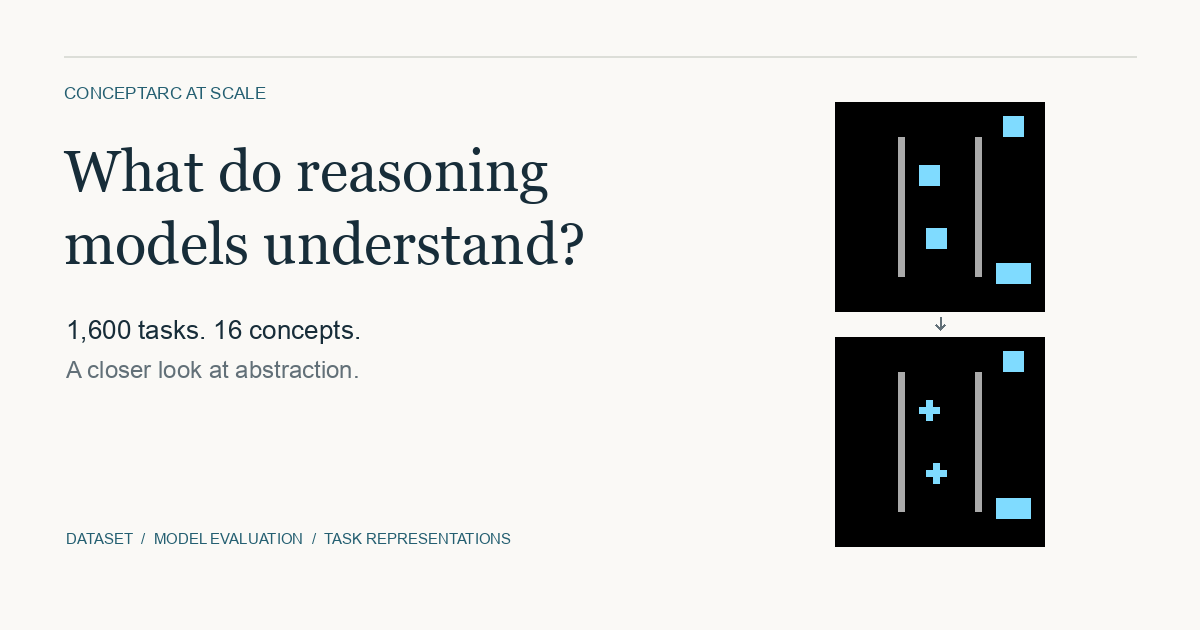
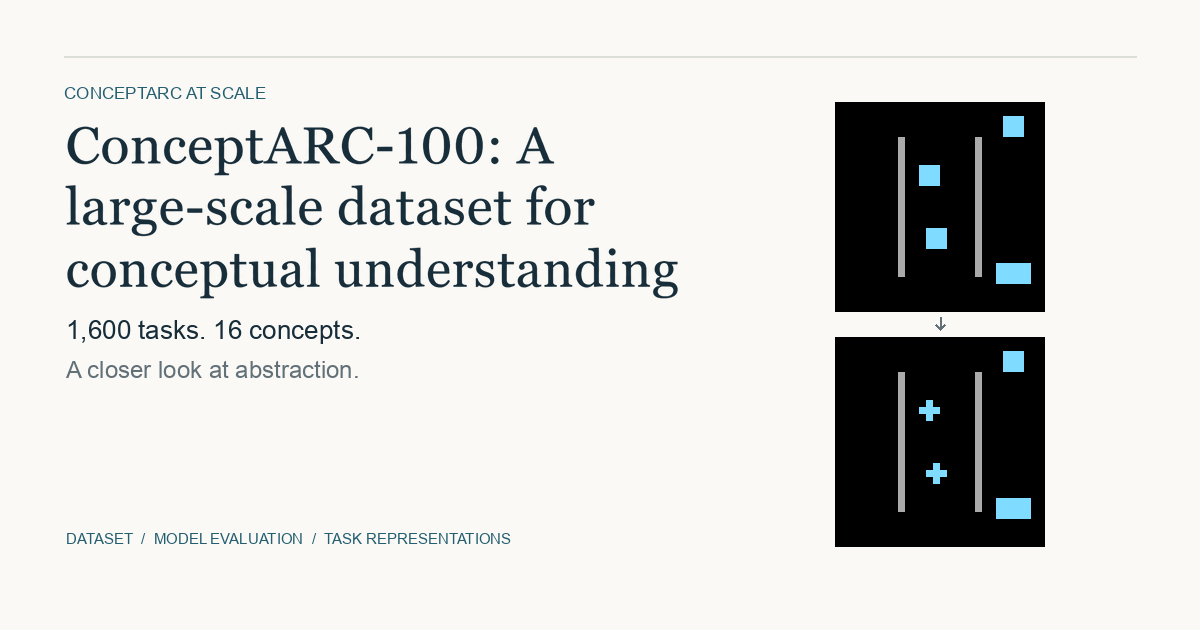
updated preview

Changed region(s): [[0.0308, 0.181, 0.5858, 0.4825]]

diff --git a/index.html b/index.html
@@ -7,18 +7,18 @@
   <title>ConceptARC at Scale: Studying Conceptual Understanding in Reasoning Models</title>
   <meta name="description" content="1,600 tasks. 16 concepts. A closer look at what reasoning models learn. Explore ConceptARC-100, model performance, and VARC’s task embeddings.">
   <meta property="og:type" content="website">
-  <meta property="og:title" content="ConceptARC at Scale">
+  <meta property="og:title" content="ConceptARC-100: A large-scale dataset for conceptual understanding">
   <meta property="og:description" content="Studying Conceptual Understanding in Reasoning Models. Explore 1,600 tasks and the structure of learned task representations.">
-  <meta property="og:image" content="https://mainlp.github.io/conceptarc-100-project-page/assets/social-preview.png">
+  <meta property="og:image" content="https://mainlp.github.io/conceptarc-100-project-page/assets/social-preview.png?v=2">
   <meta name="twitter:card" content="summary_large_image">
-  <meta name="twitter:title" content="ConceptARC at Scale">
-  <meta name="twitter:description" content="1,600 tasks. 16 concepts. What do reasoning models learn?">
-  <meta name="twitter:image" content="https://mainlp.github.io/conceptarc-100-project-page/assets/social-preview.png">
+  <meta name="twitter:title" content="ConceptARC-100: A large-scale dataset for conceptual understanding">
+  <meta name="twitter:description" content="Explore 1,600 tasks across 16 concepts.">
+  <meta name="twitter:image" content="https://mainlp.github.io/conceptarc-100-project-page/assets/social-preview.png?v=2">
   <link rel="icon" href="assets/favicon.svg" type="image/svg+xml">
   <link rel="stylesheet" href="assets/site.css?v=results-sd-2">
   <link rel="stylesheet" href="assets/intro.css?v=analysis-disclosures-1">
   <script src="assets/site-config.js?v=resources-3" defer></script>
-  <script src="assets/home.js?v=separation-colors-2" defer></script>
+  <script src="assets/home.js?v=social-preview-2" defer></script>
   <script src="assets/intro.js" defer></script>
   <script src="assets/inline-embedding.js?v=embedding-findings-1" defer></script>
   <link rel="canonical" href="https://mainlp.github.io/conceptarc-100-project-page/">

diff --git a/assets/home.js b/assets/home.js
@@ -74,7 +74,7 @@
       const url = new URL(siteUrl); if (!url.pathname.endsWith('/')) url.pathname += '/';
       const canonical = document.querySelector('link[rel="canonical"]') || document.createElement('link'); canonical.rel = 'canonical'; canonical.href = url.href; document.head.append(canonical);
       const ogUrl = document.querySelector('meta[property="og:url"]') || document.createElement('meta'); ogUrl.setAttribute('property', 'og:url'); ogUrl.content = url.href; document.head.append(ogUrl);
-      const imageUrl = new URL('assets/social-preview.png', url).href;
+      const imageUrl = new URL('assets/social-preview.png?v=2', url).href;
       document.querySelector('meta[property="og:image"]').content = imageUrl;
       document.querySelector('meta[name="twitter:image"]').content = imageUrl;
     }
